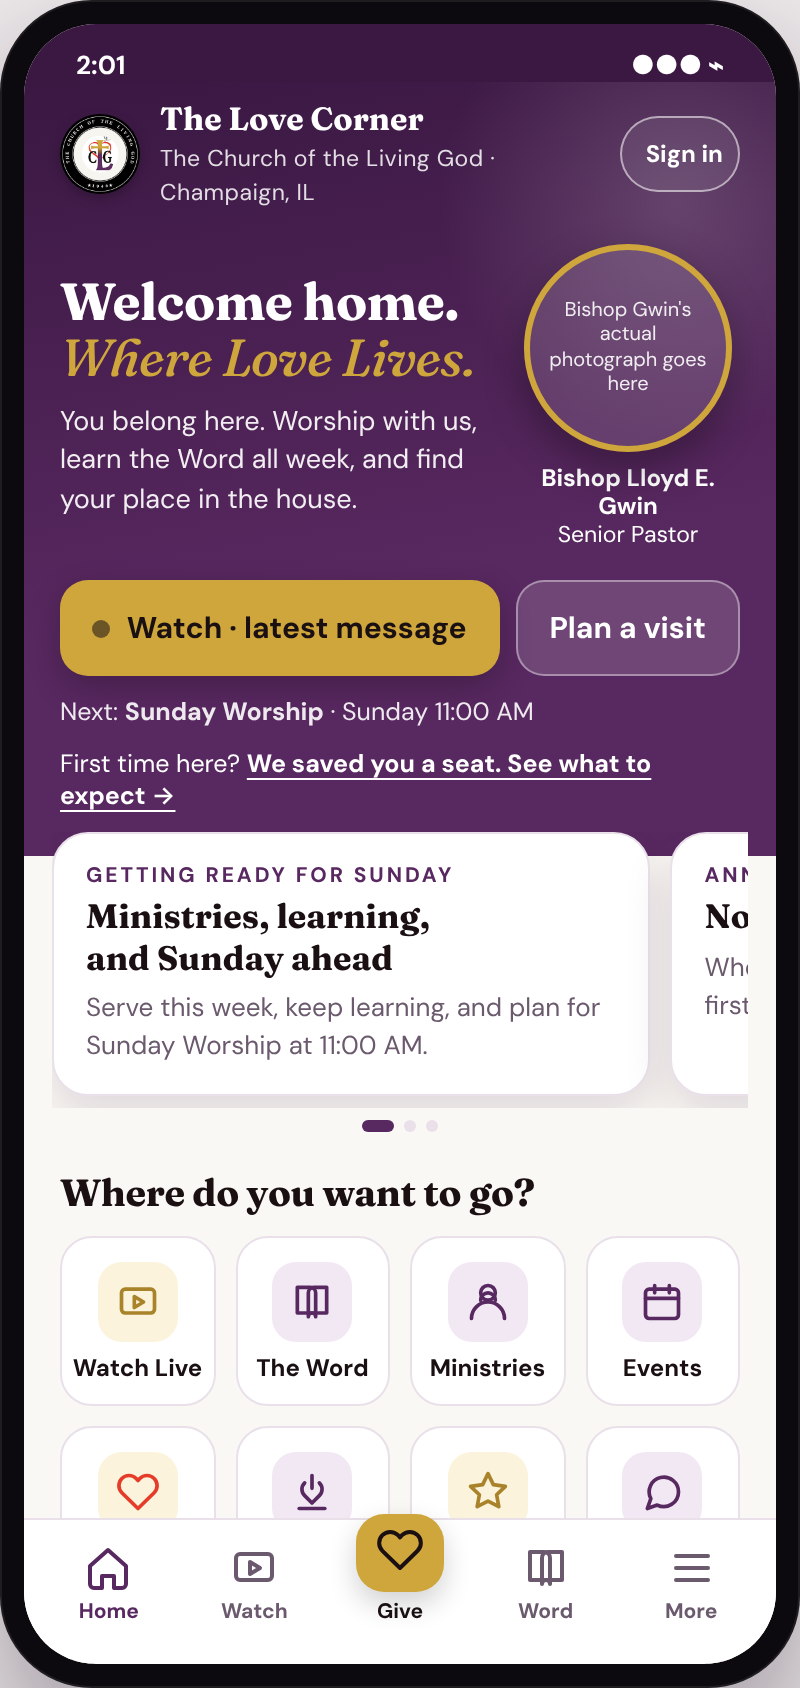
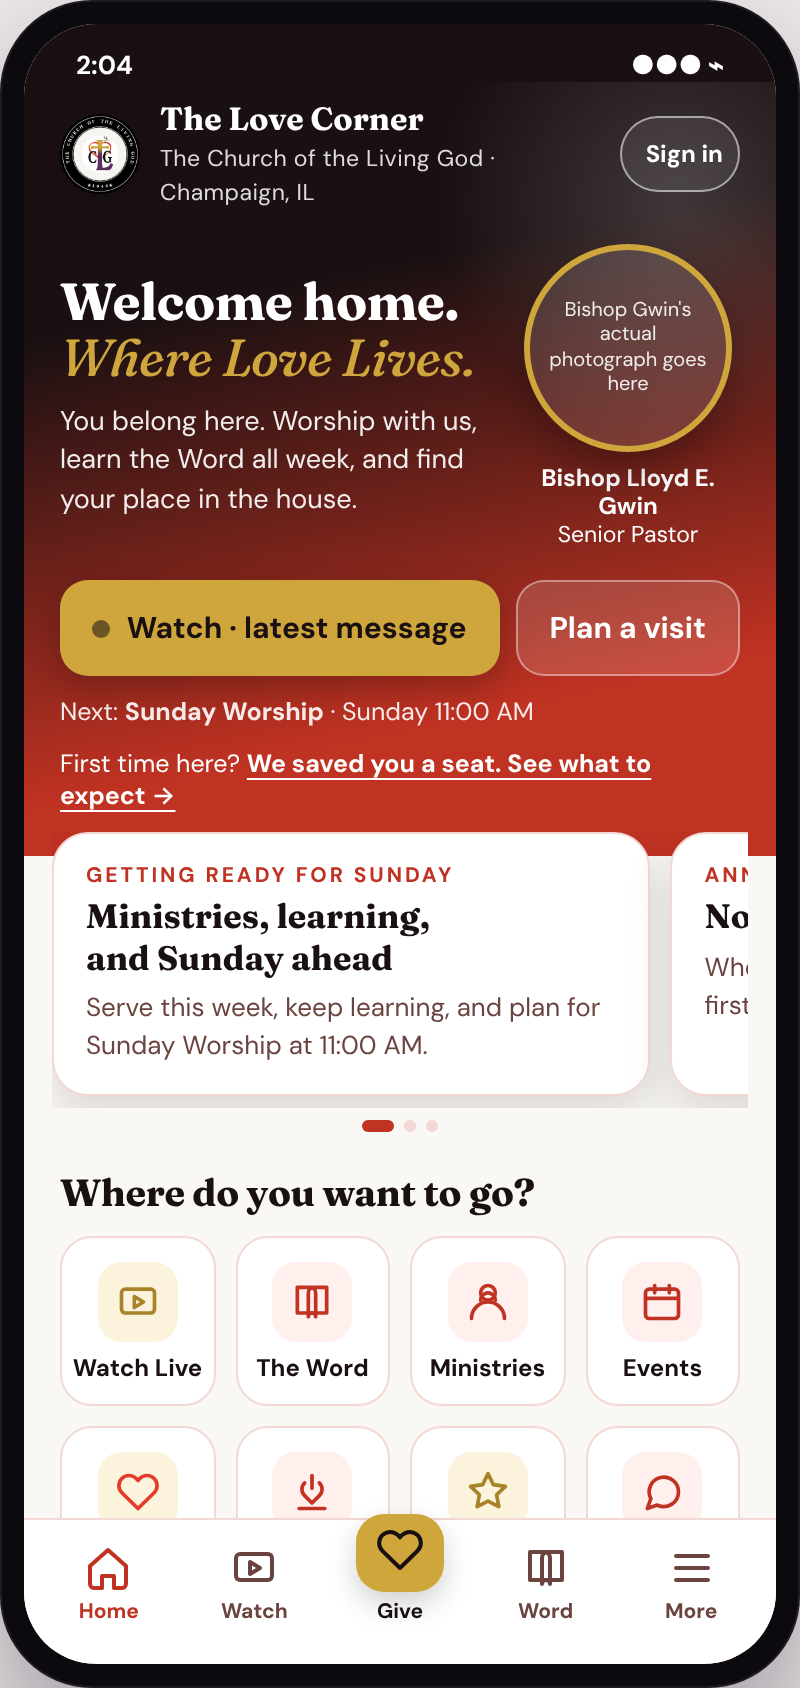
The Love Corner mockup wears red, black and white with a touch of gold
Darrell's word mid-session: "make the colors red black white with a touch gold." The
mockup's default palette is now the church's own red (#C03222, DR-1060), black, white, and
gold as the accent; purple and gold stays as a comparison toggle only. The plan drops the
proposed purple theme and adds gold accent tokens to the existing lovecorner theme instead.

Claude-Session: https://claude.ai/code/session_01Y64aURLMxqfDbS9NsqA82o

diff --git a/docs/design/love-corner-redesign/2026-11-12-homepage-mockup.html b/docs/design/love-corner-redesign/2026-11-12-homepage-mockup.html
@@ -4,21 +4,23 @@
 <style>
 /* Layout: one phone frame centered on a quiet studio ground; the mockup notes sit beside it on wide screens and under it on narrow ones. */
 :root{
-  /* measured from the church's own emblem (public/lovecorner-icon-512.png): the L is purple, the cross is gold, the heart is red */
-  --brand:#582860; --brand-deep:#3A1842; --brand-tint:#F1E8F3; --brand-ink:#FFFFFF;
+  /* Darrell 2026-11-12: "red black white with a touch gold". Measured from the church's own emblem
+     (public/lovecorner-icon-512.png): the heart is red (DR-1060 #C03222 on screen), the ring is black,
+     the field is white, the cross is gold. Gold is the touch: buttons, the tagline, the laurel. */
+  --brand:#C03222; --brand-deep:#1A1012; --brand-tint:#FFF0EE; --brand-ink:#FFFFFF;
   --accent:#CFA63C; --accent-deep:#A8832A; --accent-tint:#FBF3DC;
-  --heart:#E43C28;                /* the Blood's color: the heart, and nothing else (DR-0099 / DR-1060) */
-  --cream:#FAF8F4; --paper:#FFFFFF; --ink:#1A1012; --muted:#6B5A6E; --line:#E9E0EA;
+  --heart:#E43C28;                /* the heart's own red: Give, Prayer, the Bible's ribbon */
+  --cream:#FAF8F4; --paper:#FFFFFF; --ink:#1A1012; --muted:#6B4440; --line:#F2D9D5;
   --ok:#2F7D4F;
   --page-bg:#ECE7E9; --page-fg:#1A1012; --page-muted:#5E5460; --page-card:#FFFFFF; --page-line:#D9D0DA;
   --display:"Fraunces", Georgia, "Times New Roman", serif;
   --body:"DM Sans", system-ui, -apple-system, "Segoe UI", sans-serif;
   --r:18px;
 }
-:root[data-palette="red"]{
-  --brand:#C03222; --brand-deep:#8E2217; --brand-tint:#FFF0EE; --brand-ink:#FFFFFF;
-  --accent:#1A1012; --accent-deep:#000000; --accent-tint:#F3EEEF;
-  --line:#F2D9D5; --muted:#6B4440;
+:root[data-palette="purple"]{
+  /* the earlier brief's purple + gold, also measured from the emblem (the L is purple) */
+  --brand:#582860; --brand-deep:#3A1842; --brand-tint:#F1E8F3;
+  --line:#E9E0EA; --muted:#6B5A6E;
 }
 @media (prefers-color-scheme: dark){
   :root:not([data-theme="light"]){ --page-bg:#17121A; --page-fg:#F3ECF4; --page-muted:#B9ADBC; --page-card:#241C27; --page-line:#3A2F3E; color-scheme:dark }
@@ -58,7 +60,7 @@ code{font-family:ui-monospace,Menlo,Consolas,monospace;font-size:.92em;backgroun
 .scroll::-webkit-scrollbar{display:none}
 
 /* top band + hero */
-.band{background:linear-gradient(170deg,var(--brand-deep) 0%,var(--brand) 62%,var(--brand) 100%);color:var(--brand-ink);padding:10px 18px 22px;position:relative;overflow:hidden}
+.band{background:linear-gradient(168deg,var(--brand-deep) 0%,var(--brand-deep) 28%,var(--brand) 78%,var(--brand) 100%);color:var(--brand-ink);padding:10px 18px 22px;position:relative;overflow:hidden}
 .band::after{content:"";position:absolute;right:-70px;top:-60px;width:240px;height:240px;border-radius:50%;background:radial-gradient(circle,rgba(255,255,255,.16),rgba(255,255,255,0) 70%)}
 .brandrow{display:flex;align-items:center;gap:10px;position:relative;z-index:1}
 .brandrow img{width:40px;height:40px;border-radius:50%;background:#fff;box-shadow:0 2px 6px rgba(0,0,0,.25)}
@@ -94,7 +96,7 @@ code{font-family:ui-monospace,Menlo,Consolas,monospace;font-size:.92em;backgroun
 .feature{margin:-12px 14px 0;position:relative;z-index:2}
 .feat-track{display:flex;gap:10px;overflow-x:auto;scroll-snap-type:x mandatory;scrollbar-width:none;padding-bottom:6px}
 .feat-track::-webkit-scrollbar{display:none}
-.feat{flex:0 0 86%;scroll-snap-align:start;background:var(--paper);border-radius:var(--r);padding:14px 16px;box-shadow:0 10px 24px rgba(58,24,66,.14);border:1px solid var(--line);min-width:0}
+.feat{flex:0 0 86%;scroll-snap-align:start;background:var(--paper);border-radius:var(--r);padding:14px 16px;box-shadow:0 10px 24px rgba(26,16,18,.14);border:1px solid var(--line);min-width:0}
 .feat .k{font-size:10.5px;text-transform:uppercase;letter-spacing:.14em;color:var(--brand);font-weight:700}
 .feat h3{font-family:var(--display);font-weight:700;font-size:17px;margin-top:4px;line-height:1.2}
 .feat p{margin:6px 0 0;font-size:13px;line-height:1.45;color:var(--muted)}
@@ -184,10 +186,10 @@ code{font-family:ui-monospace,Menlo,Consolas,monospace;font-size:.92em;backgroun
 .legend i.p{background:transparent;border:1.5px solid var(--muted)}
 
 /* institute featured card */
-.inst-card{display:block;text-decoration:none;color:var(--ink);background:var(--paper);border:1.5px solid var(--accent);border-radius:22px;overflow:hidden;box-shadow:0 14px 30px rgba(58,24,66,.16);transition:transform .14s ease}
+.inst-card{display:block;text-decoration:none;color:var(--ink);background:var(--paper);border:1.5px solid var(--accent);border-radius:22px;overflow:hidden;box-shadow:0 14px 30px rgba(26,16,18,.16);transition:transform .14s ease}
 .inst-card:hover{transform:translateY(-2px)}
 .inst-card:focus-visible{outline:3px solid var(--accent);outline-offset:2px}
-.inst-art{background:linear-gradient(160deg,var(--brand-deep),var(--brand) 70%);padding:12px 20px 0;display:flex;justify-content:center;position:relative;overflow:hidden}
+.inst-art{background:linear-gradient(160deg,var(--brand-deep) 0%,var(--brand-deep) 35%,var(--brand) 100%);padding:12px 20px 0;display:flex;justify-content:center;position:relative;overflow:hidden}
 .inst-art::before{content:"";position:absolute;inset:auto -40% -70% -40%;height:160px;border-radius:50%;background:var(--accent);opacity:.18}
 .inst-svg{width:170px;height:auto;position:relative}
 .inst-svg .laurel{stroke:var(--accent)}
@@ -212,7 +214,7 @@ code{font-family:ui-monospace,Menlo,Consolas,monospace;font-size:.92em;backgroun
 /* institute landing screen */
 .inst-screen{position:absolute;inset:0;background:var(--cream);z-index:6;display:flex;flex-direction:column}
 .inst-screen .scroll{padding-bottom:28px}
-.inst-hero{background:linear-gradient(170deg,var(--brand-deep),var(--brand) 65%);color:var(--brand-ink);padding:10px 18px 22px;position:relative;overflow:hidden}
+.inst-hero{background:linear-gradient(168deg,var(--brand-deep) 0%,var(--brand-deep) 30%,var(--brand) 80%);color:var(--brand-ink);padding:10px 18px 22px;position:relative;overflow:hidden}
 .inst-hero::after{content:"";position:absolute;right:-60px;top:-50px;width:220px;height:220px;border-radius:50%;background:radial-gradient(circle,rgba(207,166,60,.35),rgba(207,166,60,0) 70%)}
 .backrow{display:flex;align-items:center;gap:10px;position:relative;z-index:1}
 .backrow button{border:0;background:rgba(255,255,255,.14);color:var(--brand-ink);border-radius:999px;min-height:40px;padding:0 14px 0 10px;font-weight:700;cursor:pointer;display:inline-flex;align-items:center;gap:6px}
@@ -564,12 +566,12 @@ code{font-family:ui-monospace,Menlo,Consolas,monospace;font-size:.92em;backgroun
     <p class="lede">A phone-first mockup of the Church of the Living God app. Nothing in the existing app has been changed. Everything on the screen maps to a tab, a record or a schedule the app already has.</p>
 
     <div class="controls" role="group" aria-label="Mockup controls">
-      <button type="button" class="ctl" data-palette="purple" aria-pressed="true"><span class="sw" style="background:#582860"></span><span class="sw" style="background:#CFA63C;margin-left:-6px"></span>Purple &amp; gold (this brief)</button>
-      <button type="button" class="ctl" data-palette="red" aria-pressed="false"><span class="sw" style="background:#C03222"></span><span class="sw" style="background:#1A1012;margin-left:-6px"></span>Red &amp; white (current, DR-1060)</button>
+      <button type="button" class="ctl" data-palette="red" aria-pressed="true"><span class="sw" style="background:#C03222"></span><span class="sw" style="background:#1A1012;margin-left:-6px"></span><span class="sw" style="background:#CFA63C;margin-left:-6px"></span>Red, black, white + gold (Darrell, today)</button>
+      <button type="button" class="ctl" data-palette="purple" aria-pressed="false"><span class="sw" style="background:#582860"></span><span class="sw" style="background:#CFA63C;margin-left:-6px"></span>Purple &amp; gold (earlier brief)</button>
       <label class="ctl" for="bishop-file">📷 Load Bishop Gwin's photo (stays on your device)<input id="bishop-file" type="file" accept="image/*"></label>
     </div>
 
-    <div class="fact"><b>The emblem is the real one.</b> It is the church seal the app already ships (<code>lovecorner-icon-512.png</code>). The purple and gold in this mockup were measured from it: the L is purple, the cross is gold, the heart is red. Red stays on the heart only.</div>
+    <div class="fact"><b>The emblem is the real one.</b> It is the church seal the app already ships (<code>lovecorner-icon-512.png</code>). The colors were measured from it: the heart is red, the ring is black, the field is white, the cross is gold. The default is Darrell's word today: red, black and white with a touch of gold. Purple and gold (the earlier brief) stays one tap away for comparison.</div>
     <div class="fact"><b>Bishop Gwin's photograph is not in the repository and was not attached to this session.</b> The slot is honest and empty. Use the loader above to preview the real photo in place; it never leaves your browser. No face has been generated.</div>
     <div class="fact"><b>The hero changes with the real schedule.</b> Sunday Worship 11:00 AM, Bible Study Wednesday 1:00 PM and 6:00 PM (Champaign time), from the church record the app already uses. Inside a service window the button reads Live now. Outside it, Latest message.</div>
     <div class="fact"><b>Upcoming shows the honest state.</b> The two announced events in the church record (the July Assembly, the August Gospel Fest) have passed, so the list shows the fallback and the weekly services, never an invented event.</div>

diff --git a/docs/99-session-notes/2026-11-12-the-love-corner-redesign-mockup-and-plan.md b/docs/99-session-notes/2026-11-12-the-love-corner-redesign-mockup-and-plan.md
@@ -36,13 +36,12 @@ checklist, component layout, navigation mapping, phases and a testing strategy. 
    default, measured from the same emblem.** Both are in the emblem. Measured from
    `lovecorner-icon-512.png` this session (DR-0076 §4): the L is `#582860` (most common purple
    bucket, 2,576 px), the cross is `#CFA63C` (207,166,60), the heart is `#E43C28` (DR-1060's red).
-   The mockup ships **purple + gold as the primary** (this brief is the latest word) with a one-tap
-   toggle to the DR-1060 red + white so the two can be compared on the same screen. **Red is kept on
-   the heart only** (Give, Prayer, the Bible's ribbon) — the Blood's color never spreads to buttons,
-   warnings or decoration (DR-0099). **This is a COLG-facing identity choice (DR-0111 carve-out #1):
-   the default is purple + gold per this brief; if Darrell or the Bishop prefers DR-1060's red, the
-   toggle shows what that looks like and a new DR supersedes DR-1060's default.** The existing
-   `lovecorner` theme in `lib/theme-css.js` is NOT removed either way; a `lovecorner-royal` theme is added.
+   **Decided by Darrell mid-session (2026-11-12): "make the colors red black white with a touch gold."**
+   The mockup's default is now red `#C03222` (DR-1060's measured red), black `#1A1012`, white, and
+   gold `#CFA63C` as the touch (the Watch button, the tagline, the laurel, the Give pill). Purple + gold
+   stays one tap away as a comparison only. This confirms DR-1060's red + white + black and adds the
+   gold accent; the production theme is the existing `lovecorner` theme with gold accent tokens added
+   (no new default theme needed; a new DR records the gold touch).
 4. **"TLC" collides with TLC Therapy Solutions in this codebase** (`app/tlc/`, `components/Tlc*.jsx`,
    `view === 'tlc'`; see the 2026-11-12 Institute note §2.1). The church's own face is The Love Corner.
    The Institute's **display name** is "TLC Theological Institute" exactly as the brief says; its
@@ -159,7 +158,7 @@ components/YouthZone.jsx       — the Youth Zone surface (churchView 'youth')
 components/MinistriesLanding.jsx — grouped landing over the existing ChurchMinistries directory
 lib/home-week.js               — pure: weekday → feature cards (now passed in; tests pin each day)
 lib/lovecorner-palette.js      — the measured tokens (purple #582860, gold #CFA63C, heart #E43C28)
-lib/theme-css.js               — + theme 'lovecorner-royal' (purple & gold); 'lovecorner' red stays
+lib/theme-css.js               — 'lovecorner' theme gains gold accent tokens (red, black, white + gold)
 ```
 
 Real data each part reads (DR-0061 trace): church record (`resolveChurch`), `liveStatus(now)`,
@@ -196,7 +195,7 @@ homepage grid widens to 2–3 columns; the bottom nav is phone-only (`ChromeDock
 
 | Phase | Scope | Tier | Files | Done when |
 |---|---|---|---|---|
-| 0 | Assets: the real Bishop photo into `app/public/lovecorner/`; `lovecorner-royal` theme tokens; `lib/lovecorner-palette.js` | A | public/, theme-css.js | photo renders at 2× on the hero; contrast gate passes for the new theme |
+| 0 | Assets: the real Bishop photo into `app/public/lovecorner/`; gold accent tokens on the `lovecorner` theme; `lib/lovecorner-palette.js` (red, black, white, gold, measured) | A | public/, theme-css.js | photo renders at 2× on the hero; contrast gate passes for the gold-on-red and gold-on-black pairs |
 | 1 | Homepage shell: `LoveCornerHome` + Hero + QuickAccess + ThisWeek + FeatureCarousel + bottom nav (ChromeDock tabs config) + More sheet; ChurchHome's existing sections mount below unchanged | A | components/lovecorner/*, ChromeDock config, surfaces.js, the one mount line in the shell | every §4 tab reachable in ≤2 taps on a 390px phone; monolith line count does not grow |
 | 2 | Learning Zone card + Youth Zone surface (Kids/Teens doors over AGE_BANDS, trivia from `trivia_questions`, memory verse from the Scripture reader, badges = derived from `learner_lesson_records` counts, never painted) + child-account guardrails (no public child profile, no messaging; youth content read-only until a parent/household row exists per DR-0093) | B | YouthZone.jsx, lib/youth-zone.js, tests | badges proven derived (test sets rows → badge appears; deletes rows → it does not) |
 | 3 | Ministries landing (grouped over the registry) + Institute Slice A (`ChurchInstitute.jsx`, `lib/church-institute.js`, featured card, registry entry, Learn category) | A | per Institute note §5 Slice A | Institute shows only the 4 existing courses as available; `launchState` never reads open without `confirmed` |
@@ -233,7 +232,8 @@ homepage can be reviewed live (DR-0104) before the rest stacks on it.
 
 - No file under `app/src` changed. Approval of the mockup is the gate (brief §12).
 - Bishop's photograph: a value only Darrell holds → attach it or drop it in `app/public/lovecorner/`.
-- Palette default (purple+gold vs DR-1060 red): COLG identity choice; default = purple+gold per this brief.
+- Palette: DECIDED — red, black, white with a touch of gold (Darrell, 2026-11-12). Phase 0 adds the
+  gold accent tokens to the `lovecorner` theme; `lovecorner-royal` is dropped from the plan.
 - Institute name "TLC Theological Institute": taken from this brief; the Institute note's §7.1 name
   decision is thereby answered unless the Bishop says otherwise.
 - The giving deep-link (`links.give`) and the Facebook URLs remain pending the office (unchanged).
